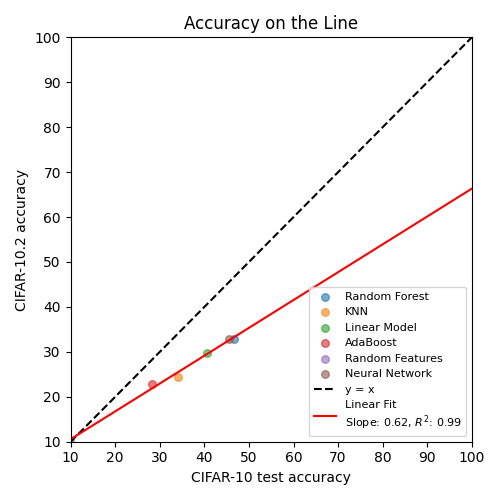
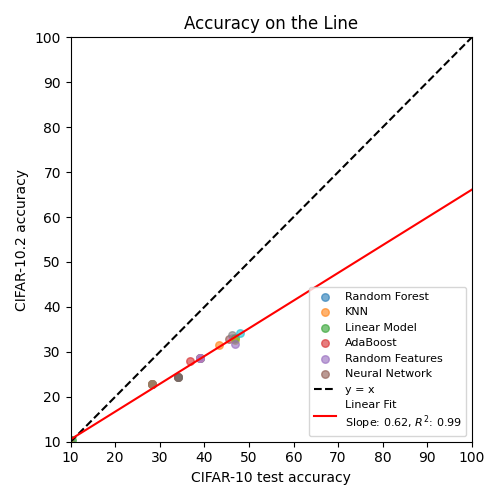
add results for 5 runs

diff --git a/src/run_experiment.py b/src/run_experiment.py
@@ -18,6 +18,7 @@ sys.path.append(os.path.abspath(os.path.join(os.path.dirname(__file__), "..")))
 from dataset import load_cifar10, load_cifar102
 from models.models import get_models, train_mlp
 
+DAY = "22_07"
 RESULTS_DIR = os.path.join(os.path.dirname(__file__), "..", "models", "outputs")
 os.makedirs(RESULTS_DIR, exist_ok=True)
 
@@ -129,7 +130,7 @@ def run_experiment() -> None:
         )
 
     # Save results
-    results_path = os.path.join(RESULTS_DIR, "experiment_results.json")
+    results_path = os.path.join(RESULTS_DIR, f"experiment_results_{DAY}.json")
     save_results(results, results_path)
 
 
